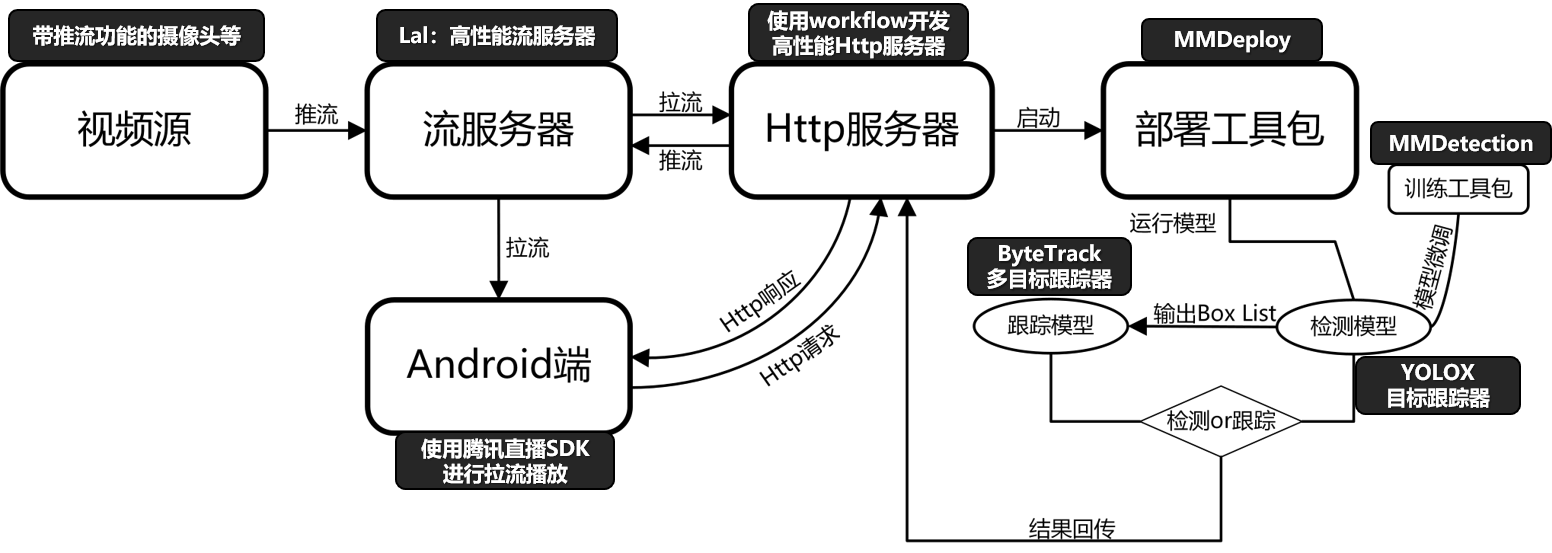
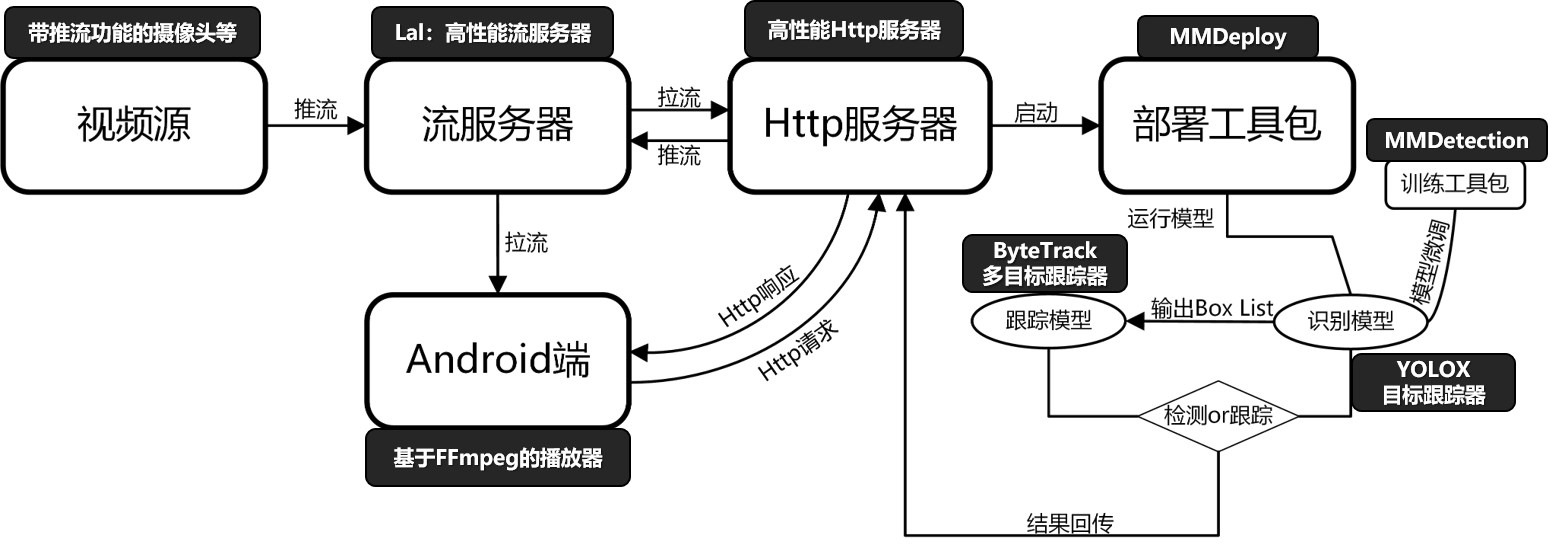
feat: add fix

diff --git a/README.md b/README.md
@@ -92,7 +92,6 @@ Cat Cat | MMDeply $\times$ GLCC 开源项目 | MMDeploy 实践
 # 安装与运行
 ### 环境依赖
 * **MMDeploy**(OpenMMLab下部署工作包) ➡ [点击进入](https://github.com/open-mmlab/mmdeploy.git)
-* **Workflow**(基于C/C++致力于高性能服务器开发的库) ➡ [点击进入](https://github.com/sogou/workflow/blob/master) 
 * **Eigen**(C/C++的矩阵计算库) ➡ [点击进入](https://eigen.tuxfamily.org/index.php?title=Main_Page)
 * **FFmpeg**(包含视频、音频处理工具包和开发库) ➡ [点击进入](https://ffmpeg.org/)
 * **Mysql**(开放源码的数据库) ➡ [点击进入](https://www.mysql.com/)
@@ -204,6 +203,7 @@ SPDLOG_LEVEL=error ./glcc_server ${config}
 * [MMDetection](https://github.com/open-mmlab/mmdetection)
 * [YOLOX](https://github.com/Megvii-BaseDetection/YOLOX)
 * [Workflow](https://github.com/sogou/workflow/blob/master)
+* [Lal](https://github.com/q191201771/lal)
 * [MegFlow](https://github.com/MegEngine/MegFlow)
 * [ByteTrack](https://github.com/ifzhang/ByteTrack)
 * [loguru](https://github.com/emilk/loguru)
